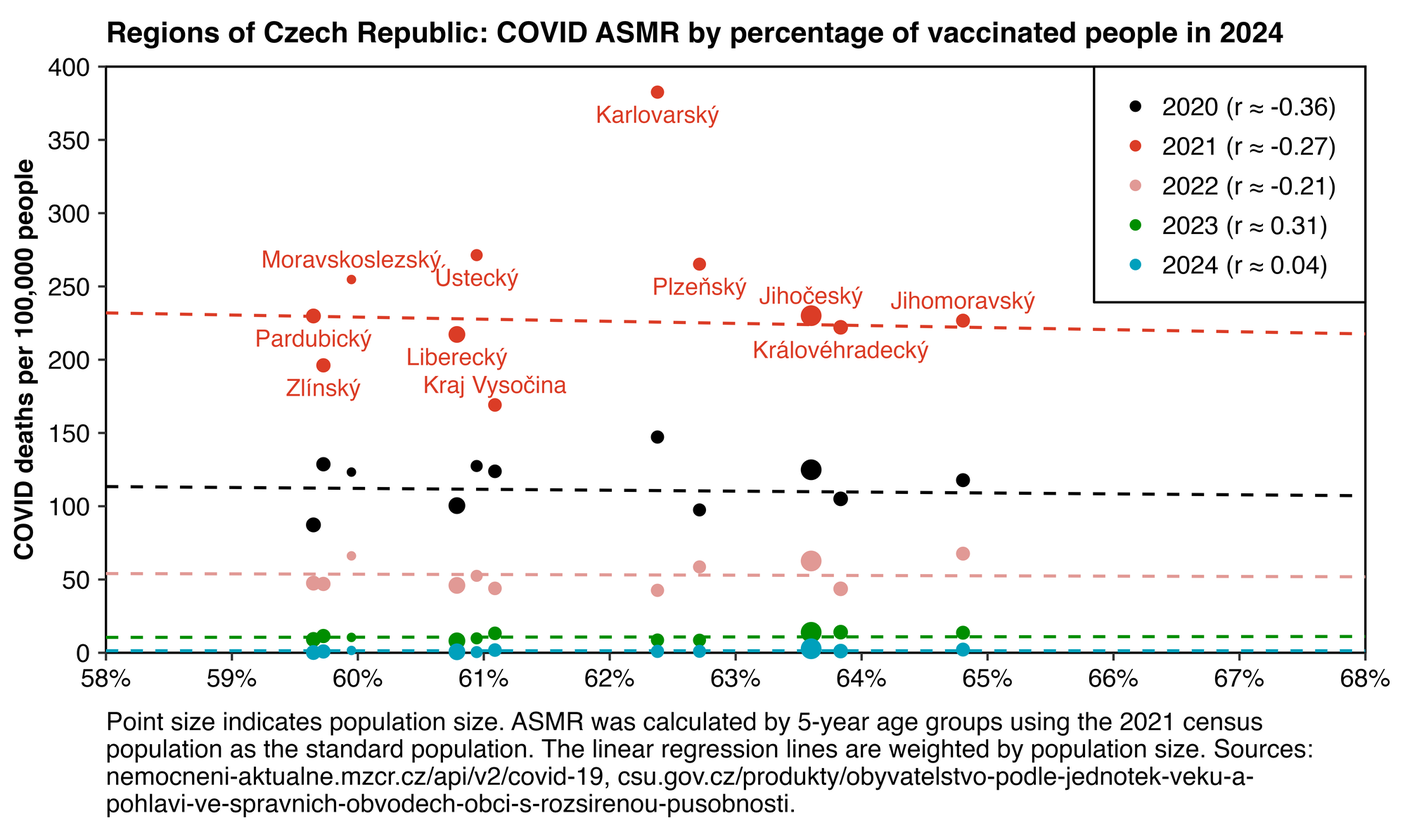
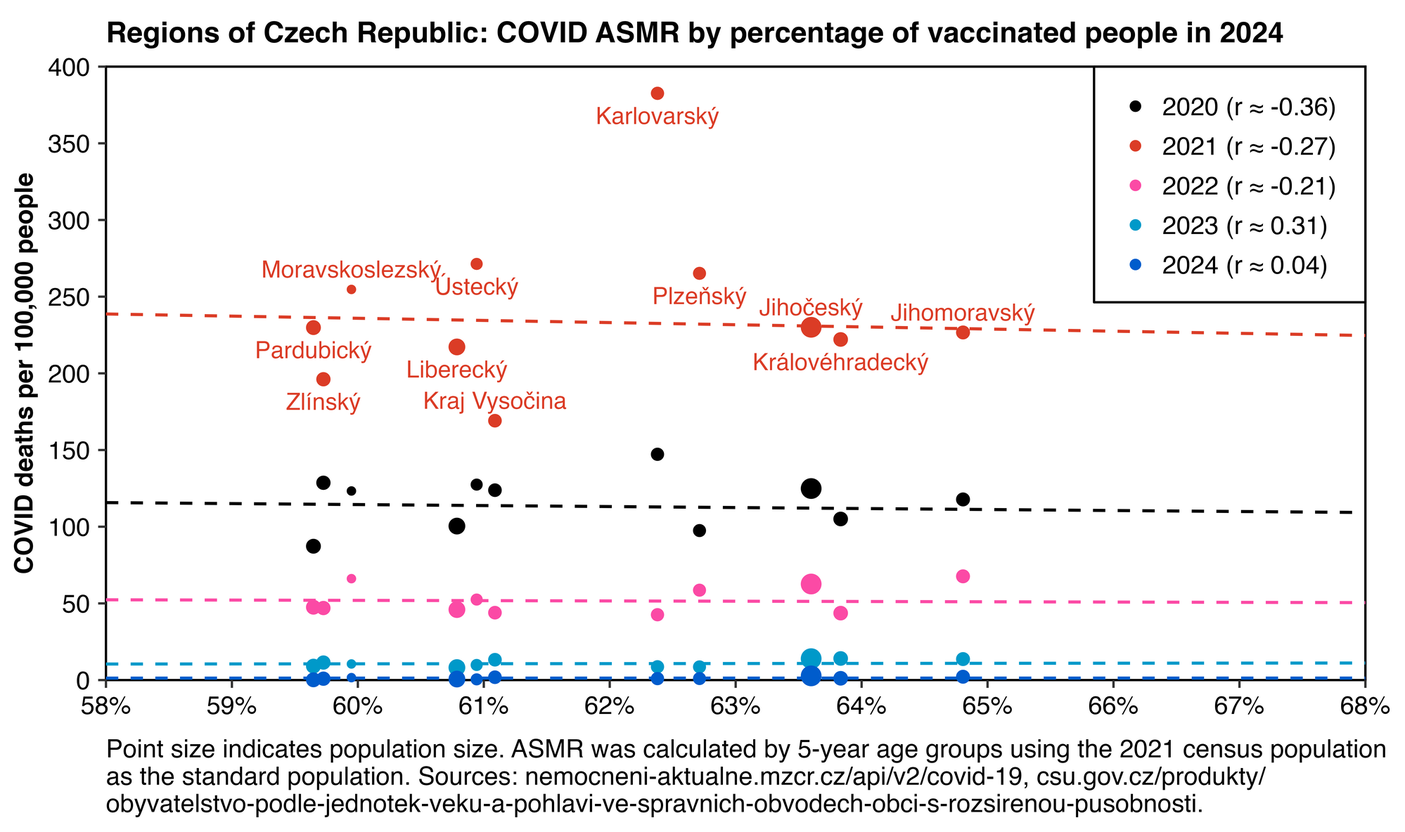
a

diff --git a/czech3.html b/czech3.html
@@ -66,7 +66,7 @@ blockquote blockquote blockquote,blockquote blockquote .quote,blockquote .quote 
 <li><a href=#Hospitalizations_by_age_group_and_vaccination_status>Hospitalizations by age group and vaccination status</a></li>
 <li><a href=#Vaccinator_types>Vaccinator types</a></li>
 <li><a href=#Yearly_deaths_in_Czech_Republic_by_underlying_cause_of_death>Yearly deaths in Czech Republic by underlying cause of death</a></li>
-<li><a href=#Yearly_COVID_ASMR_compared_to_percentage_of_vaccinated_people>Yearly COVID ASMR compared to percentage of vaccinated people</a></li>
+<li><a href=#COVID_ASMR_compared_to_percentage_of_vaccinated_people_by_region>COVID ASMR compared to percentage of vaccinated people by region</a></li>
 </ul>
 
 <h2>
@@ -76,7 +76,7 @@ blockquote blockquote blockquote,blockquote blockquote .quote,blockquote .quote 
 <div class="maxwidth">
 <img src=i/czech-chronic-1.png class=width5><img src=i/czech-chronic-2.png class=width4>
 </div>
-<p>The value of the <code>indikace_chronicke_onemocneni</code> column (indication chronic illness) is always either 1 or empty. I thought that the percentage of people where the value of the <span class="quote">&quot;indication chronic illness&quot;</span> column was 1 was surprisingly low, because there's only one age group where the column is true for over 10% of people with a first dose, and the percentage seemed to be fairly high in young age groups relative to old age groups (and for some reaoson it's about 10 times higher in ages 65-69 than ages 80+):</p>
+<p>The value of the <code>indikace_chronicke_onemocneni</code> column (indication chronic illness) is always either 1 or empty. I thought that the percentage of people where the value of the <span class="quote">&quot;indication chronic illness&quot;</span> column was 1 was surprisingly low, because there's only one age group where the column is true for over 10% of people with a first dose, and the percentage seemed to be fairly high in young age groups relative to old age groups (and for some reason it's about 10 times higher in ages 65-69 than ages 80+):</p>
 <pre>&gt; download.file(&quot;https://onemocneni-aktualne.mzcr.cz/api/v2/covid-19/ockovani-profese.csv&quot;,&quot;ockovani-profese.csv&quot;) # about 4 GiB
 &gt; pro=fread(&quot;ockovani-profese.csv&quot;)
 &gt; d=pro[poradi_davky==1&amp;vekova_skupina!=&quot;nezařazeno&quot;,.(.N,chronic=sum(indikace_chronicke_onemocneni,na.rm=T)),.(type=vakcina,age=as.numeric(sub(&quot;[+-].*&quot;,&quot;&quot;,vekova_skupina)))]
@@ -533,8 +533,7 @@ system(&quot;magick 0.png -resize 25% 1.png&quot;)</pre>
 </h2>
 <p>The second file from the bottom under vaccinations here has data for hospitalizations by vaccine type and age group: <a href="https://onemocneni-aktualne.mzcr.cz/api/v2/covid-19">https://onemocneni-aktualne.mzcr.cz/api/v2/covid-19</a>.</p>
 <p>The file has about 7 million rows with one row for each vaccinated person. It has these columns:</p>
-<pre>                             id id
-            kraj_bydliste_nazev name of region of resicence
+<pre>            kraj_bydliste_nazev name of region of resicence
               kraj_bydliste_kod code of region of residence
              orp_bydliste_nazev name of county of residence
                orp_bydliste_kod code of county of residence
@@ -557,20 +556,16 @@ system(&quot;magick 0.png -resize 25% 1.png&quot;)</pre>
                 jip_po_ockovani ICU after vaccination</pre>
 <p>The types of test are diagnostic, preventative, epidemiological, or other (ostatní). Negative tests are not listed so the type of the test is only shown for positive tests. There's only up to one test before vaccination and one test after vaccination listed for each person, and similarly there's only up to one hospitalization before vaccination and one hospitalization after vaccination listed for each person.</p>
 <p>I used the file to calculate an age-normalized hospitalization rate from the day of the first dose up to the present. The file included data for hospitalizations up the the present month, so I used the date when I downloaded the file as the end of my observation period.</p>
-<p>For each 17 age groups included in the file, I calculated the expected number of deaths by multiplying the person-days by the mortality rate among all people who had a first dose listed in the file.</p>
-<p>My excess percentage of hospitalizations was about -6% for the first dose type <span class="quote">&quot;Comirnaty&quot;</span> and about -4% for the first dose type <span class="quote">&quot;SPIKEVAX&quot;</span>, so it was almost the same, but AstraZeneca and particularly Janssen vaccines had a much higher hospitalization rate (but they are not mRNA vaccines unlike Pfizer and Moderna, even though it might be a coincidence):</p>
-<pre>download.file(&quot;https://onemocneni-aktualne.mzcr.cz/api/v2/covid-19/ockovani-pozitivni-hospitalizovani.csv&quot;,&quot;ockovani-pozitivni-hospitalizovani.csv&quot;)
-
-h=fread(&quot;ockovani-pozitivni-hospitalizovani.csv&quot;)
-
-d=h[,.(age=vekova_kategorie,date=prvni_davka,type=ockovaci_latka_nazev,hosp=hospitalizace_po_ockovani)][age!=&quot;-&quot;]
-maxdate=as.IDate(&quot;2024-7-20&quot;)
-
-a=d[,.(hosp=sum(hosp,na.rm=T),pop=sum(as.double(maxdate-date+1))),.(type,age)]
-a=merge(a,a[,.(base=sum(hosp)/sum(pop)),age])[,base:=base*pop]
-a[,.(excesspct=round((sum(hosp)/sum(base)-1)*100),hospitalizations=sum(hosp),pyears=round(sum(pop/365))),type][order(-pyears)]|&gt;print(r=F)</pre>
-<!-- -->
-<pre>                                      type excesspct hospitalizations   pyears
+<p>In order to calculate the expected number of deaths for each vaccine type, I multiplied the number of person-days the vaccine type had for each age group with the mortality rate of each age group among all people who had a first dose listed in the file.</p>
+<p>My excess percentage of hospitalizations was about -6% for the first dose type <span class="quote">&quot;Comirnaty&quot;</span> and about -4% for the first dose type <span class="quote">&quot;SPIKEVAX&quot;</span>, so there was not much difference, but AstraZeneca and particularly Janssen vaccines had a much higher hospitalization rate:</p>
+<pre>&gt; download.file(&quot;https://onemocneni-aktualne.mzcr.cz/api/v2/covid-19/ockovani-pozitivni-hospitalizovani.csv&quot;,&quot;ockovani-pozitivni-hospitalizovani.csv&quot;)
+&gt; h=fread(&quot;ockovani-pozitivni-hospitalizovani.csv&quot;)
+&gt; d=h[,.(age=vekova_kategorie,date=prvni_davka,type=ockovaci_latka_nazev,hosp=hospitalizace_po_ockovani)][age!=&quot;-&quot;]
+&gt; maxdate=as.IDate(&quot;2024-7-20&quot;)
+&gt; a=d[,.(hosp=sum(hosp,na.rm=T),pop=sum(as.double(maxdate-date+1))),.(type,age)]
+&gt; a=merge(a,a[,.(base=sum(hosp)/sum(pop)),age])[,base:=base*pop]
+&gt; a[,.(excesspct=round((sum(hosp)/sum(base)-1)*100),hospitalizations=sum(hosp),pyears=round(sum(pop/365))),type][order(-pyears)]|&gt;print(r=F)
+                                      type excesspct hospitalizations   pyears
                                  Comirnaty        -6            43053 17432607 # Pfizer
                                   SPIKEVAX        -4             6234  1657122 # Moderna
                                  VAXZEVRIA        19            11921  1478098 # AstraZeneca
@@ -593,16 +588,14 @@ a[,.(excesspct=round((sum(hosp)/sum(base)-1)*100),hospitalizations=sum(hosp),pye
                                    Valneva      -100                0        4
                          Nuvaxovid XBB 1.5      -100                0        2
                                       type excesspct hospitalizations   pyears</pre>
-<p>In the code below I additionally normalized the hospitalization rate for the month of vaccination. I now only included first doses given in 2021, because otherwise I would've been more likely to get an anomalously high baseline rates for vaccination months with a low number of doses given in some age groups. However now Moderna got a slightly lower excess hospitalization percent than Pfizer which was the opposite of the previous plot. And now the hospitalization rate of Janssen vaccines reduced dramatically as expected, because late vaccinees had a higher hospitalization rate than early vaccinees, and late vaccinees are overrepresented for Janssen vaccines:</p>
-<pre>yemo=\(x){u=unique(x);format(u,&quot;%Y-%m&quot;)[match(x,u)]}
-
-d2=d[date&lt;=&quot;2021-12-31&quot;][,month:=yemo(date)]
-a=d2[,.(hosp=sum(hosp,na.rm=T),pop=sum(as.double(maxdate-date+1))),.(type,age,month)]
-a=merge(a,a[,.(base=sum(hosp)/sum(pop)),.(month,age)])[,base:=base*pop]
-a=a[,.(excesspct=round((sum(hosp)/sum(base)-1)*100),hospitalizations=sum(hosp),pyears=round(sum(pop/365))),type]
-a[order(-pyears)]|&gt;print(r=F)</pre>
-<!-- -->
-<pre>                     type excesspct hospitalizations   pyears
+<p>In the code below I additionally normalized the hospitalization rate for the month of vaccination. I now only included first doses given in 2021, because otherwise I would've been more likely to get anomalously high baseline mortality rates for combinations of vaccination month and age group that had a low number of person-days. However now Moderna got a slightly lower excess hospitalization percent than Pfizer which was the opposite of my previous calculation. And now there was a big drop in the excess hospitalization rate of Janssen vaccines, because late vaccinees have a higher hospitalization rate than early vaccinees, and late vaccinees are overrepresented for Janssen vaccines:</p>
+<pre>&gt; yemo=\(x){u=unique(x);format(u,&quot;%Y-%m&quot;)[match(x,u)]}
+&gt; d2=d[date&lt;=&quot;2021-12-31&quot;][,month:=yemo(date)]
+&gt; a=d2[,.(hosp=sum(hosp,na.rm=T),pop=sum(as.double(maxdate-date+1))),.(type,age,month)]
+&gt; a=merge(a,a[,.(base=sum(hosp)/sum(pop)),.(month,age)])[,base:=base*pop]
+&gt; a=a[,.(excesspct=round((sum(hosp)/sum(base)-1)*100),hospitalizations=sum(hosp),pyears=round(sum(pop/365))),type]
+&gt; a[order(-pyears)]|&gt;print(r=F)
+                     type excesspct hospitalizations   pyears
                 Comirnaty        -5            42775 17127673
                  SPIKEVAX        -6             6210  1633228
                 VAXZEVRIA        21            11921  1478067
@@ -613,11 +606,11 @@ a[order(-pyears)]|&gt;print(r=F)</pre>
                   Covovax      -100                0       85
                 Sputnik V      -100                0       28
                   COVAXIN      -100                0       16</pre>
-<p>The plot below shows the excess hospitalization percent by age and the month of the first dose. There's a diagonal pattern across different age groups where there's a low excess hospitalization percent during the same month when the number of first doses peaked in the age group:</p>
+<p>The next plot shows the excess hospitalization percent by age and the month of the first dose. There's a diagonal pattern across different age groups where there's a low excess hospitalization percent during the same month when the number of first doses peaked in the age group:</p>
 <div class="width9">
 <img src="i/czech-hosprate.png">
 </div>
-<p>The next plot shows the excess hospitalization rate by vaccine type instead of age group. Janssen and AstraZeneca got a much higher total hospitalization rate than Pfizer and Moderna. I didn't normalize the total excess mortality by the month of vaccination so Janssen again got 57% excess hospitalizations (because the late vaccinees who had a high hospitalization rate were overrepresented for Janssen vaccines):</p>
+<p>The next plot shows the excess hospitalization rate by vaccine type instead of age group. Janssen and AstraZeneca got a much higher total hospitalization rate than Pfizer and Moderna. I didn't normalize the total excess mortality by the month of vaccination so Janssen again got a high percentage of excess hospitalizations (because the late vaccinees who had a high hospitalization rate were overrepresented for Janssen vaccines):</p>
 <div class="width10">
 <img src="i/czech-hosprate-2.png">
 </div>
@@ -1108,7 +1101,7 @@ $ csvtk cut -f location,date,weekly_hosp_admissions owid-covid-data.csv|grep Cze
 <p>And also if you add together the blue and red lines during the peak in March 2021, then the combined height of the lines is lower in old age groups that got vaccinated earlier.</p>
 <p>However it's also weird that during the peak in February 2021, ages 12-19 have almost the same number of hospitalizations in vaccinated and unvaccinated people even though the percentage of vaccinated people is not that high.</p>
 <p><img src=i/czech-hospvaxun.png style=max-width:520px></p>
-<p>The next plot shows the hospitalization rate per million people instead of the raw number of hospitalizations. Now vaccinated people in ages 12-19 have a big spike in the hospitalization rate around April 2021, but it's probably because vulnerable groups of people had been priorized to be vaccinated early. But otherwise unvaccinated people generally have a much higher hospitalization rate than vaccinated people up to around mid-2022, after which the ratio between vaccinated and unvaccinated people gets smaller which might be because unvaccinated people have acquired natural immunity:</p>
+<p>The next plot shows the hospitalization rate per million people instead of the raw number of hospitalizations. Now vaccinated people in ages 12-19 have a big spike in the hospitalization rate around April 2021, but it's probably because vulnerable groups of people had been priorized to be vaccinated early. But otherwise unvaccinated people generally have a much higher hospitalization rate than vaccinated people up to around mid-2022, after which the ratio between vaccinated and unvaccinated people gradually gets smaller over time (which might be because unvaccinated people gradually acquire natural immunity over time):</p>
 <p><img src=i/czech-hospvaxun-2.png style=max-width:520px></p>
 <pre>library(data.table);library(ggplot2)
 
@@ -1200,9 +1193,9 @@ ggsave(&quot;1.png&quot;,width=3,height=4.7,dpi=450)</pre>
 <h2>
 <a href=#Vaccinator_types id=Vaccinator_types>Vaccinator types</a>
 </h2>
-<p>The file <code>ockovani-profese.csv</code> has about 19 million rows with one row per vaccine dose. It includes a field for the name of the organization or individual who gave each vaccine dose.</p>
-<p>Elderly people who live in long-term care have much higher age-normalized mortality rates than elderly people who don't live in long-term care, which is one of the confounding factors that is not accounted by simple age-standardized mortality rates.</p>
-<p>I wanted to check if Pfizer or Moderna had a higher percentage of vaccines given to elderly homes, so I searched for vaccinators whose name matched <span class="quote">&quot;Domov pro seniory&quot;</span>, <span class="quote">&quot;Domov seniorů&quot;</span>, or <span class="quote">&quot;Penzion pro seniory&quot;</span>. There was a total of only 7,708 matching rows, but it might be if people in elderly homes got vaccinated at a hospital, or if the name of the individual person who gave vaccine was listed as the vaccinator and not the name of an elderly care facility:</p>
+<p>The file <code>ockovani-profese.csv</code> has about 19 million rows with one row per vaccine dose. There's also a column for the name of the organization or individual who gave each vaccine dose.</p>
+<p>Elderly people who live in a long-term care home have much higher age-normalized mortality rates than elderly people who don't live in a long-term care home, which is one of the confounding factors that is not account for by simple age-standardized mortality rates.</p>
+<p>I wanted to check if Pfizer or Moderna had a higher percentage of vaccines given to elderly homes, so I searched for vaccinators whose name matched <span class="quote">&quot;Domov pro seniory&quot;</span>, <span class="quote">&quot;Domov seniorů&quot;</span>, or <span class="quote">&quot;Penzion pro seniory&quot;</span>. There were only 7,708 matching rows, but it might be if people in elderly homes got vaccinated at a hospital, or if the name of the individual person who gave the vaccine was listed as the vaccinator and not the name of an elderly care facility:</p>
 <pre>&gt; download.file(&quot;https://onemocneni-aktualne.mzcr.cz/api/v2/covid-19/ockovani-profese.csv&quot;,&quot;ockovani-profese.csv&quot;) # about 4 GiB
 &gt; pro=fread(&quot;ockovani-profese.csv&quot;)
 &gt; pro[,.N,zarizeni_nazev][grep(&quot;Domov pro seniory|Domov seniorů|Penzion pro seniory&quot;,zarizeni_nazev)][order(-N)]|&gt;print(r=F)
@@ -1227,7 +1220,7 @@ Domov pro seniory Osoblaha, příspěvková organizace  185
    Domov pro seniory Nopova,příspěvková organizace   18
                Domov pro seniory Kosmonautů, p. o.    8
     Domov seniorů Jankov, poskytovatel soc. služeb    4</pre>
-<p>But anyway, compared to a baseline of all vaccine types, the excess age-normalized proportion of rows where the vaccinator was one of the elderly homes listed above was about 50% for SPIKEVAX but about 8% for Comirnaty:</p>
+<p>But anyway, compared to a baseline of all vaccine types, the excess age-normalized proportion of rows where the vaccinator was one of the elderly homes listed above was about 50% for SPIKEVAX but about 8% for Comirnaty. So it's another possible explanation for why Moderna vaccines get a higher age-normalized mortality rate than Pfizer vaccines:</p>
 <pre>&gt; d=pro[,.N,.(vaxtype=vakcina,vaccinator=zarizeni_nazev,age=vekova_skupina)]
 &gt; d=d[,.(N=sum(N),match=sum(N*grepl(&quot;Domov pro seniory|Domov seniorů|Penzion pro seniory&quot;,vaccinator))),.(vaxtype,age)]
 &gt; d=merge(d,d[,.(base=sum(match)/sum(N)),age])[,base:=base*N]
@@ -1242,7 +1235,7 @@ Domov pro seniory Osoblaha, příspěvková organizace  185
       Comirnaty Original/Omicron BA.1    9.70    89   121312 0.073365
                        Comirnaty 5-11 -100.00     0   112874 0.000000
                             Nuvaxovid -100.00     0    11311 0.000000</pre>
-<p>The file <code>ockovani-profese.csv</code> includes a vaccinator ID and vaccinator name for all 19,047,050 rows. However it includes a different set of vaccinator IDs and vaccinator names than the <code>ockovaci-zarizeni.csv</code> which has information about each vaccinator. And regardless of whether I tried to join the two files by the names or the IDs, about 15 million out of about 19 million rows in <code>ockovani-profese.csv</code> could not be joined with the file for vaccinator information because it was missing many of the most common vaccinator types:</p>
+<p>The file <code>ockovani-profese.csv</code> includes a vaccinator ID and vaccinator name for all 19,047,050 rows. However it includes a different set of vaccinator IDs and vaccinator names than the file <code>ockovaci-zarizeni.csv</code> which has information about each vaccinator. And regardless of whether I tried to join the two files by the names or the IDs, about 15 million out of about 19 million rows in <code>ockovani-profese.csv</code> could not be joined:</p>
 <table>
 <tr><th>
 File
@@ -1280,21 +1273,21 @@ Doses included by join
 4052183
 </td></tr>
 </table>
-<p>The proportion of doses whose vaccinator ID was not missing from the file for vaccinator information was about 11% for Comirnaty, 52% for SPIKEVAX, and 81% for VAXZEVRIA:</p>
+<p>The proportion of doses whose vaccinator ID was not missing from the file for vaccinator information was about 11% for Comirnaty, 52% for SPIKEVAX, and 81% for VAXZEVRIA (which again shows that the vaccine brands were not just distributed randomly like Kirsch has argued, since Pfizer vaccines had by far the highest percentage of doses whose vaccinator ID was missing from the <code>ockovaci-zarizeni.csv</code> file):</p>
 <pre>&gt; download.file(&quot;https://onemocneni-aktualne.mzcr.cz/api/v2/covid-19/ockovani-zarizeni.csv&quot;,&quot;ockovani-zarizeni.csv&quot;)
 &gt; zar=fread(&quot;ockovaci-zarizeni.csv&quot;)
 &gt; d=pro[,.(joined=sum(zarizeni_kod%in%zar$zarizeni_kod),doses=.N),.(vaxtype=vakcina)]
 &gt; d[,joinedpct:=round((joined/doses)*100)][order(-joined)][joined&gt;1e4]|&gt;print(r=F)
                               vaxtype  joined    doses joinedpct
-                            Comirnaty 1606601 15037534        11
-                             SPIKEVAX  850742  1634938        52
-                            VAXZEVRIA  714750   887562        81
+                            Comirnaty 1606601 15037534        11 # Pfizer (by far lowest joined percentage)
+                             SPIKEVAX  850742  1634938        52 # Moderna
+                            VAXZEVRIA  714750   887562        81 # AstraZeneca (highest joined percentage)
            Comirnaty Omicron XBB.1.5.  278685   375130        74
              COVID-19 Vaccine Janssen  220765   415094        53
  Comirnaty Original/Omicron BA.4/BA.5  186579   436729        43
       Comirnaty Original/Omicron BA.1   72163   121312        59
                        Comirnaty 5-11   40573   112874        36</pre>
-<p>In the file for vaccinator information, I believe the field <code>prakticky_lekar</code> indicates if the vaccinator was a doctor who is a practicioner (but it might not necessarily mean a general practicioner). For the approximately 4 million out of 19 million rows in <code>ockovani-profese.csv</code> where the vaccinator ID was not missing from the file for vaccinator information, the excess age-normalized percentage of doses where the <code>prakticky_lekar</code> field was true was about -7% for Comirnaty but 7% for SPIKEVAX:</p>
+<p>In the file for vaccinator information, I believe the field <code>prakticky_lekar</code> indicates if the vaccinator was a doctor who is a practicioner, but it might not necessarily mean a general practicioner. For the approximately 4 million out of 19 million rows in <code>ockovani-profese.csv</code> where the vaccinator ID was not missing from the file for vaccinator information, the excess age-normalized percentage of doses where the <code>prakticky_lekar</code> field was true was about -7% for Comirnaty but 7% for SPIKEVAX:</p>
 <pre>&gt; vaccinators=zar[,.(vaccinator=zarizeni_kod,practioner=!is.na(zar$prakticky_lekar))]
 &gt; d=merge(pro[,.N,.(vaxtype=vakcina,vaccinator=zarizeni_kod,age=vekova_skupina)],vaccinators)
 &gt; d=d[,.(N=sum(N),match=sum(practioner*N)),.(vaxtype,age)]
@@ -1309,7 +1302,7 @@ Doses included by join
  Comirnaty Original/Omicron BA.4/BA.5         3  186579
       Comirnaty Original/Omicron BA.1         3   72163
                        Comirnaty 5-11         0   40573</pre>
-<p>When I looked at only first doses instead of all doses, there were now so many doses missing for the type Comirnaty that there were three other vaccine types that had a higher number of doses that could be joined. But now the excess age-normalized percentage of doses where the <code>prakticky_lekar</code> field was true was about -30% for Comirnaty but 11% for SPIKEVAX:</p>
+<p>When I looked at only first doses instead of all doses, Comirnaty now had so many doses missing that there were three other vaccine types that had a higher number of doses that could be joined by the vaccinator ID. But now the excess age-normalized percentage of doses where the <code>prakticky_lekar</code> field was true was about -30% for Comirnaty but about 11% for SPIKEVAX:</p>
 <pre>&gt; d=merge(pro[poradi_davky==1,.N,.(vaxtype=vakcina,vaccinator=zarizeni_kod,age=vekova_skupina)],vaccinators)
 &gt; d=d[,.(N=sum(N),match=sum(practioner*N)),.(vaxtype,age)]
 &gt; d=merge(d,d[,.(base=sum(match)/sum(N)),age])[,base:=base*N]
@@ -1325,19 +1318,19 @@ Doses included by join
 </h2>
 <p>In an earlier section I combined Excel files published by the Czech Statistical Office in order to generate a CSV file that shows yearly deaths grouped by ICD code for the underlying cause of death and age: <a href=czech2.html#Deaths_by_ICD_code_region_age_group_and_year>czech2.html#Deaths_by_ICD_code_region_age_group_and_year</a>, <a href="https://csu.gov.cz/produkty/zemreli-podle-seznamu-pricin-smrti-pohlavi-a-veku-v-cr-krajich-a-okresech-fgjmtyk2qr">https://csu.gov.cz/produkty/zemreli-podle-seznamu-pricin-smrti-pohlavi-a-veku-v-cr-krajich-a-okresech-fgjmtyk2qr</a>.</p>
 <p>The yearly number of deaths in the Excel files is otherwise identical to the record-level data except the record-level data is missing a single death in 2021:</p>
-<pre>&gt; rec=fread(&quot;CR_records.csv&quot;,showProgress=F)
+<pre>&gt; rec=fread(&quot;CR_records.csv&quot;)
 &gt; reclev=rec[,.(reclev=.N),.(year=year(DatumUmrti))]
-&gt; eurostat=fread(&quot;http://sars2.net/f/czpopdead.csv&quot;)[year&gt;=2020,.(eurostat=sum(dead)),year]
-&gt; icd=fread(&quot;http://sars2.net/f/czicd.csv.gz&quot;)[year&gt;=2020,.(icd=sum(dead)),year]
+&gt; eurostat=fread(&quot;http://sars2.net/f/czpopdead.csv&quot;)[,.(eurostat=sum(dead)),year]
+&gt; icd=fread(&quot;http://sars2.net/f/czicd.csv.gz&quot;)[,.(icd=sum(dead)),year]
 &gt; merge(icd,merge(reclev,eurostat))
    year    icd reclev eurostat
 1: 2020 129289 129289   129289
 2: 2021 139891 139890   139891
 3: 2022 120219 120219   120219</pre>
 <p>But anyway, I now used the data for deaths by underlying cause of death to make the plot below, where the left side shows ASMR grouped by the underlying cause of death, and the right side shows the excess ASMR percent relative to a 2013-2019 linear trend. I used the 2021 census population by 5-year age groups as the standard population.</p>
-<p>There's very little excess deaths in 2021 or 2022 if the deaths where the underlying cause of death was COVID are excluded. For example in 2021 there was about 25% total excess ASMR but it fell to only about 3% if deaths with UCoD COVID were excluded. So if vaccines were killing a huge number of people, then did all of the people die of COVID?</p>
-<p>Turbo cancer is nowhere to be seen either, because the excess percentage of deaths with an underlying cause of neoplasms is about -3% in 2021 and -1% in 2022. (But Ethical Skeptic would probably argue it's because I committed the crime of torfuscation, which means that I didn't adjust my baseline for the pull forward effect.)</p>
-<p>There is however a clear increase in deaths under the ICD code I which contains diseases of the circulatory system, even though the excess mortality for ICD code I was the biggest in 2020 which is difficult to blame on the vaccines.</p>
+<p>There's almost no excess deaths in 2021 and 2022 if the deaths where the underlying cause of death was COVID are excluded. For example in 2021 there was about 25% total excess ASMR but it fell to only about 3% if deaths with the underlying cause of COVID were excluded. So if vaccines were killing a huge number of people like Kirsch seems to suggest, then did the people all die of COVID?</p>
+<p>Turbo cancer is nowhere to be seen either, because the excess percentage of deaths with an underlying cause of neoplasms is about -3% in 2021 and -1% in 2022. (But Ethical Skeptic would probably argue it's because I committed the crime of torfuscation, which means that I didn't account for mortality displacement by adjusting my baseline for the pull forward effect.)</p>
+<p>In 2020-2022 there is however a clear increase in deaths under the ICD chapter I which consists of diseases of the circulatory system, even though the excess mortality for chapter I was the highest in 2020 which is difficult to blame on the vaccines.</p>
 <div class="width12">
 <img src="i/czech-icd.png">
 </div>
@@ -1483,11 +1476,11 @@ theme(axis.text=element_text(size=7,color=&quot;black&quot;),
 ggsave(&quot;0.png&quot;,width=4.2,height=2.9,dpi=400*4)
 system(&quot;magick 0.png -resize 25% 1.png&quot;)</pre>
 <h2>
-<a href=#Yearly_COVID_ASMR_compared_to_percentage_of_vaccinated_people id=Yearly_COVID_ASMR_compared_to_percentage_of_vaccinated_people>Yearly COVID ASMR compared to percentage of vaccinated people</a>
+<a href=#COVID_ASMR_compared_to_percentage_of_vaccinated_people_by_region id=COVID_ASMR_compared_to_percentage_of_vaccinated_people_by_region>COVID ASMR compared to percentage of vaccinated people by region</a>
 </h2>
-<p>Ethical Skeptic and Clare Craig have made plots which have showed that US counties with a lower percentage of vaccinated people tended to already have a higher number of COVID deaths in 2020 before vaccination started. So I wanted to check if the same was true of the Czech Republic.</p>
-<p>The Czech Republic consists of 14 regions (kraj). They can be divided into 77 LAU1 units, which consist of 76 districts along with Prague. The NUTS4 regions are the same as LAU1 units. In the file <code>umrti.csv</code> COVID deaths are classified under 77 NUTS4/LAU1 codes. But in the files <code>ockovani-orp.csv</code> and <code>ockovani-profese.csv</code> the vaccinations classified under 208 ORP codes instead (<span class="quote">&quot;Obce s rozšířenou působností&quot;</span>). I didn't find a way to map the ORP codes to NUTS4 codes. This file has information about the ORP regions, but it doesn't seem to include NUTS4 or LAU1 codes: <a href="https://data.gov.cz/dataset?iri=https%3A%2F%2Fdata.gov.cz%2Fzdroj%2Fdatov%C3%A9-sady%2F00025712%2F52c6e525fda1b5f842e169420a4d8d29">https://data.gov.cz/dataset?iri=https%3A%2F%2Fdata.gov.cz%2Fzdroj%2Fdatov%C3%A9-sady%2F00025712%2F52c6e525fda1b5f842e169420a4d8d29</a>.</p>
-<p>So below I simply plotted the kraj but not more fine-grained regions. When I compared the percentage of vaccinated people in 2024 against the yearly COVID ASMR, I got a negative correlation of -0.35 in 2020, -0.30 in 2021, and -0.23 in 2022, but in 2023 I got a positive correlation of 0.34. But the percentage of vaccinated people only ranges from about 60% to 65% across the regions, so the difference is so small that it probably won't have much effect on mortality from COVID:</p>
+<p>Ethical Skeptic and Clare Craig have made plots which have showed that in US counties that later had a lower percentage of vaccinated people, there already tended to be a higher COVID mortality rate in 2020 before vaccination started. So I wanted to check if the same was true of the Czech Republic.</p>
+<p>The Czech Republic consists of 14 regions (kraj). They can be divided into 77 LAU1 regions, which consist of 76 districts along with Prague, and which are the same as the NUTS4 regions. In the file <code>umrti.csv</code> COVID deaths are classified under codes for the 77 NUTS4/LAU1 regions. But in the files <code>ockovani-orp.csv</code> and <code>ockovani-profese.csv</code> the vaccinations classified under 208 ORP codes instead (<span class="quote">&quot;obce s rozšířenou působností&quot;</span>, municipality with extended jurisdiction). I didn't find a way to map the ORP codes to NUTS4 codes. This file has information about the ORP codes, but it doesn't seem to include NUTS4 or LAU1 codes: <a href="https://data.gov.cz/dataset?iri=https%3A%2F%2Fdata.gov.cz%2Fzdroj%2Fdatov%C3%A9-sady%2F00025712%2F52c6e525fda1b5f842e169420a4d8d29">https://data.gov.cz/dataset?iri=https%3A%2F%2Fdata.gov.cz%2Fzdroj%2Fdatov%C3%A9-sady%2F00025712%2F52c6e525fda1b5f842e169420a4d8d29</a>.</p>
+<p>So in the plot below I had to settle with plotting the kraj but not more fine-grained regions. When I compared the percentage of vaccinated people in 2024 against the yearly COVID ASMR, I got a negative correlation of -0.35 in 2020, -0.30 in 2021, and -0.23 in 2022, but in 2023 I got a positive correlation of 0.34. But the percentage of vaccinated people only ranges from about 60% to 65% across the regions, so the difference is so small that it probably won't have much effect on mortality from COVID (regardless of whether the effect would be due to vaccine efficacy or due to confounders):</p>
 <div class="width8">
 <img src="i/czech-dipstick.png">
 </div>
@@ -1528,6 +1521,23 @@ ybreak=seq(ystart,yend,ystep)
 cor=sapply(split(p,p$year),\(x)cor(x$asmr,x$vaxpct))
 p$year=`levels&lt;-`(factor(p$year),sprintf(&quot;%s (r ≈ %.2f)&quot;,2020:2024,cor))
 
+    smooth=do.call(rbind,lapply(split(p,p$year),\(x)data.frame(year=x$year[1],x=0:1000/10,y=predict(lm(asmr~vaxpct,x),list(vaxpct=seq(0,100,.1))))))
+
+color=c(&quot;black&quot;,hcl(c(0,330,200,240)+15,c(130,110,120,100),c(50,60,50,40)))
+
+d=p[,.(x=vaxpct,y=asmr,year,name)][order(x)]
+
+ggplot(d,aes(x,y))+
+geom_vline(xintercept=c(xstart,xend),linewidth=.3,lineend=&quot;square&quot;)+
+geom_hline(yintercept=c(ystart,yend),linewidth=.3,lineend=&quot;square&quot;)+
+# ggrepel::geom_text_repel(data=d[year==2021],aes(label=sub(&quot; kraj$&quot;,&quot;&quot;,name),color=year),size=2.3,point.padding=2,show.legend=F,max.overlaps=Inf,segment.size=.3,min.segment.length=.1,direction=&quot;y&quot;,force=10,force_pull=2,box.padding=.1)+
+geom_text(data=d[grep(2021,year)],aes(label=sub(&quot; kraj$&quot;,&quot;&quot;,name),color=year),size=2.3,vjust=c(-.7,1.8)[c(2,1,2,2,1,2,2,1,2,2,1,2,1,2)],show.legend=F)+
+geom_point(aes(color=year),stroke=0,size=p$size,alpha=1)+
+geom_line(data=smooth,aes(group=year),color=color[smooth$year],linetype=2,linewidth=.4,show.legend=F)+
+labs(x=NULL,y=&quot;COVID deaths per 100,000 people&quot;,title=&quot;Regions of Czech Republic: COVID ASMR by percentage of vaccinated people in 2024&quot;,caption=&quot;Point size indicates population size. ASMR was calculated by 5-year age groups using the 2021 census
+population as the standard population. Sources:
+nemocneni-aktualne.mzcr.cz/api/v2/covid-19, csu.gov.cz/produkty/obyvatelstvo-podle-jednotek-veku-a-
+pohlavi-ve-spravnich-obvodech-obci-s-rozsirenou-pusobnosti.&quot;)+
 smooth=do.call(rbind,lapply(split(p,p$year),\(x)data.frame(year=x$year[1],x=0:1000/10,y=predict(lm(asmr~vaxpct,x,w=x$pop),list(vaxpct=seq(0,100,.1))))))
 
 pal2=c(&quot;black&quot;,hcl(c(0,0,100,190)+15,c(130,50,130,130),c(50,70,50,50)))
@@ -1572,7 +1582,7 @@ theme(axis.text=element_text(size=7,color=&quot;black&quot;),
   plot.title=element_text(size=8,face=&quot;bold&quot;,margin=margin(2,,5)))
 ggsave(&quot;0.png&quot;,width=5.4,height=3.2,dpi=370*4)
 system(&quot;magick 0.png -resize 25% 1.png&quot;)</pre>
-<p>I excluded Prague from the plot above, because it had about 97% vaccinated people even though the next-highest percentage was only about 65%, and in many age groups there were more vaccinated people than the total population size. So maybe it includes people who lived outside Prague:</p>
+<p>I excluded Prague from the plot above, because it had about 97% vaccinated people even though in all other regions the percentage was below 65%. In many age groups Prague had more vaccinated people than the total population size, so maybe it includes people who lived outside of Prague but who only got vaccinated in Prague (or maybe the population estimates I used only included residents but the vaccination statistics also included non-residents):</p>
 <pre>&gt; vax=fread(&quot;https://onemocneni-aktualne.mzcr.cz/api/v2/covid-19/ockovani.csv&quot;)
 &gt; pop=fread(&quot;https://csu.gov.cz/docs/107508/1cab7ab3-4d2e-4d0e-c2a8-425e3442218c/130181-23data2022.csv&quot;)
 &gt; v=vax[vekova_skupina!=&quot;nezařazeno&quot;&amp;kraj_nazev==&quot;Hlavní město Praha&quot;,.(vax=sum(prvnich_davek)),.(age=as.numeric(sub(&quot;[-+].*&quot;,&quot;&quot;,vekova_skupina)))]
